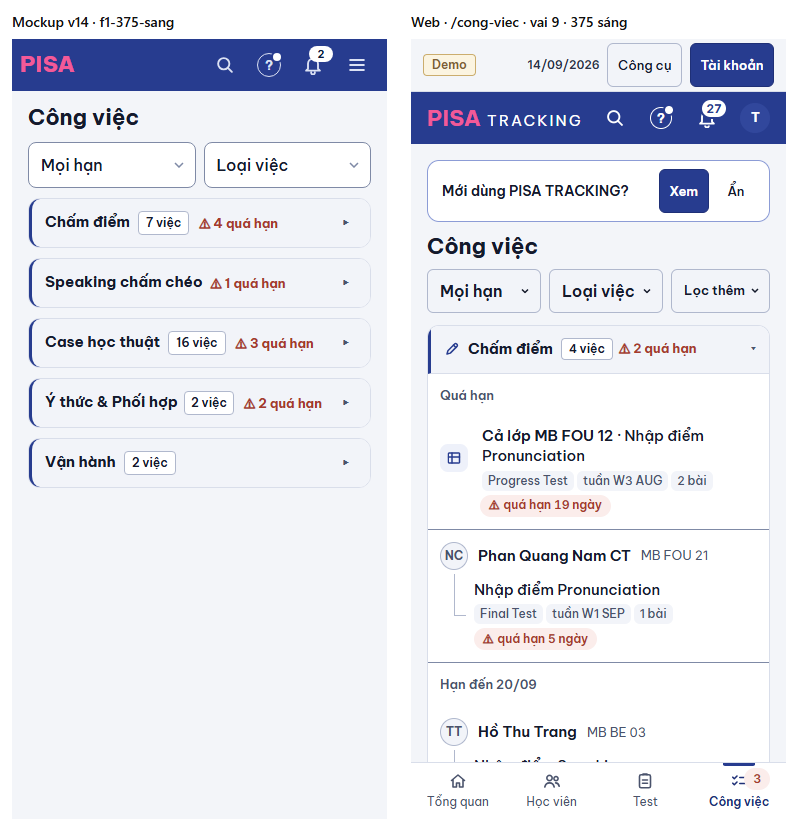
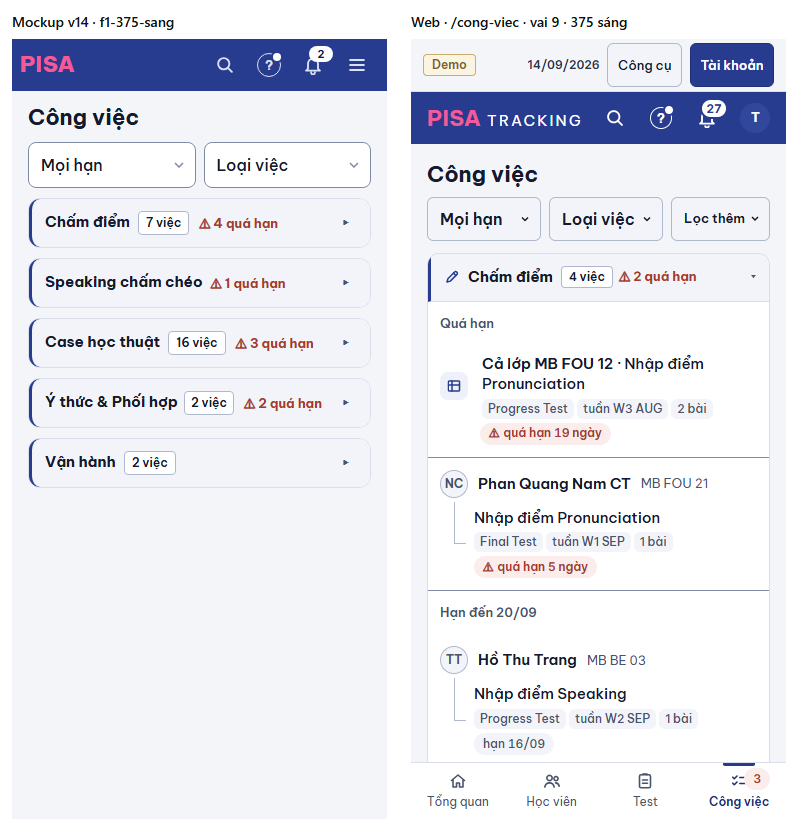
HD-V2a: bỏ dải 'Mới dùng PISA TRACKING?' (PTA chốt — chấm trên ? thay); UIC-1 đổi; chụp lại f1

Changed region(s): [[0.5113, 0.1805, 0.9323, 0.9025], [0.8421, 0.8424, 0.8722, 0.8724]]

diff --git a/server/src/tests/prUiChung.tests.ts b/server/src/tests/prUiChung.tests.ts
@@ -1,6 +1,6 @@
 /**
  * PHÉP KIỂM P3 UI-CHUNG (chủ SP 24/10 — đặc tả `2026-10-24-cai-tien-da-chot-design.md` R6.2, R6.3a, R6.4a, R6.4b). Đọc nguồn khi không kiểm được hành vi.
- *   UIC-1  "Mới dùng PISA TRACKING?" (bỏ "Mới dùng PISA?") + khoá EN
+ *   UIC-1  dải "Mới dùng PISA TRACKING?" đã bỏ (HD-V2: chấm trên nút "?")
  *   UIC-2  bỏ Góp ý hàng tuần khỏi giao diện; route, bảng `gop_y_tuan`, Lịch sử góp ý giữ
  */
 import fs from 'node:fs';
@@ -17,13 +17,12 @@ export async function runPrUiChungTests(t: any) {
   const dbMod: any = await import('../db.ts');
   const { P } = t;
   console.log('\nP3 UI-CHUNG');
-  check('UIC-1 · dải Tổng quan ghi "Mới dùng PISA TRACKING?", khoá EN "New to PISA TRACKING?"', () => {
-    const dai = doc('web/src/modules/huongDan/DaiMoiDung.tsx');
-    assert(!dai.includes("'Mới dùng PISA?'"), 'còn chữ cũ');
-    assert(dai.includes("t('Mới dùng PISA TRACKING?')"), 'thiếu chữ mới');
+  /* HD-V2 (PTA chốt 05/11, rà #1003): dải "Mới dùng PISA TRACKING?" BỎ — chấm trên nút "?" thay nó (mockup v14 F1). */
+  check('UIC-1 · dải "Mới dùng PISA TRACKING?" đã bỏ khỏi Tổng quan, Công việc; chữ EN gỡ theo', () => {
+    assert(!fs.existsSync(path.join(REPO, 'web/src/modules/huongDan/DaiMoiDung.tsx')), 'còn tệp DaiMoiDung');
+    for (const f of ['web/src/modules/worklist/OverviewPage.tsx', 'web/src/modules/congViec/HoTroHocVienTab.tsx']) assert(!doc(f).includes('DaiMoiDung'), `${f} còn dải`);
     const en = doc('shared/i18n/en/hd.ts');
-    assert(en.includes("'Mới dùng PISA TRACKING?': 'New to PISA TRACKING?'"), 'thiếu khoá EN');
-    assert(!en.includes("'Mới dùng PISA?'"), 'khoá EN cũ còn');
+    assert(!en.includes("'Mới dùng PISA TRACKING?'") && !en.includes("'Mới dùng PISA?'"), 'khoá EN của dải còn');
   });
 
   check('UIC-2 · Góp ý hàng tuần gỡ khỏi giao diện (link cũ ?che-do=gop-y → Tổng hợp), dữ liệu + Lịch sử góp ý giữ', () => {

diff --git a/server/src/tests/prHd.tests.ts b/server/src/tests/prHd.tests.ts
@@ -5,7 +5,7 @@
  *   HD-VIEC mỗi vai đúng 5 việc hằng tuần (chủ SP 15/10).
  *   HD-CHI  mỗi "Chỉ cho tôi" trỏ `data-hd` có thật trong mã web (quét nguồn) và mở trang có mục — đổi / xoá phần tử → đỏ;
  *           không trỏ phần tử màn đó không dựng cho vai (bảng CHI_VAI).
- *   HD-NHO  dải "Mới dùng PISA?" nhớ theo tài khoản: PATCH /me/profile { daXemHuongDan: true } → /demo/session; giá trị lạ → 400;
+ *   HD-NHO  "đã mở Hướng dẫn" nhớ theo tài khoản (chấm trên nút "?"): PATCH /me/profile { daXemHuongDan: true } → /demo/session; giá trị lạ → 400;
  *           migrate prHd chạy lặp được.
  */
 import fs from 'node:fs';
@@ -21,7 +21,7 @@ export async function runPrHdTests(t: any) {
   const { navOf } = await import('../platform/nav.ts');
   const { migratePrHd } = await import('../migrate/prHd.ts');
   const { createApp } = await import('../app.ts');
-  console.log('\nHD-a · Hướng dẫn trên web · mục theo màn · Chỉ cho tôi · nhớ dải Mới dùng');
+  console.log('\nHD-a · Hướng dẫn trên web · mục theo màn · Chỉ cho tôi · nhớ đã mở (chấm "?")');
 
   /* Vai có hướng dẫn → tài khoản mẫu để dựng thanh điều hướng thật (`navOf`). Thêm vai thì thêm tài khoản ở đây. */
   const { loadPrincipal } = await import('../permissions.ts');

diff --git a/web/src/modules/congViec/HoTroHocVienTab.tsx b/web/src/modules/congViec/HoTroHocVienTab.tsx
@@ -19,7 +19,6 @@ import { CreateTask } from '../worklist/MgmtTasksPage.tsx';
 import { HopChoDuyet } from '../duyet/HopChoDuyet.tsx';
 import { YeuCauCuaToi } from '../duyet/YeuCauCuaToi.tsx';
 import { LopToiDay } from '../worklist/LopToiDay.tsx';
-import { DaiMoiDung } from '../huongDan/DaiMoiDung.tsx';
 import { ChonPhuTrach } from './ChonPhuTrach.tsx';
 import { CongTacKhung, khungDaNho, nhoKhung, phamViCoHaiKhung, type KhungLoc } from '../../ui/CongTacKhung.tsx';
 import { DauViecCongViec, KhungTaiCho, NhanTruongDam, boChuRoi } from '../../ui/KhungPanel.tsx';
@@ -372,7 +371,6 @@ export function HoTroHocVienTab() {
   return (
     <div className="space-y-3">
       <div className={`space-y-2.5 ${anTrenDienThoai}`}>
-        {laGv && <DaiMoiDung />}
         {/* v12 S11: tiêu đề trái (bỏ "n việc · n HV · n bài" — số ở đầu nhóm) — bộ lọc phải. KHUNG-LOI (A1-07): tiêu đề = tên menu.
             TVV một chi nhánh vẫn có tên chi nhánh (UI-CV-TVV). */}
         <header className="flex flex-wrap items-center gap-x-3.5 gap-y-2" data-hd="cv-loc-them">

diff --git a/web/src/modules/worklist/OverviewPage.tsx b/web/src/modules/worklist/OverviewPage.tsx
@@ -6,7 +6,6 @@ import { useApi } from '../../lib/useApi.ts';
 import { BranchFilter, useChiNhanhMacDinh } from '../../ui/Filters.tsx';
 import { LichSapToi } from './Highlights.tsx';
 import { ErrorState, Skeleton } from '../../ui/ui.tsx';
-import { DaiMoiDung } from '../huongDan/DaiMoiDung.tsx';
 import { MockTestAdmin } from './MockTestAdmin.tsx';
 import { CongTacKhung, khungDaNho } from '../../ui/CongTacKhung.tsx';
 import {
@@ -46,7 +45,6 @@ export default function OverviewPage() {
   const trang = (phamVi: string, than: React.ReactNode, ben?: React.ReactNode, ky?: { tu: string; den: string } | null) => (
     <div className="page tq-v8 space-y-4">
       <DauTrangTq phamVi={phamVi} ben={ben} ky={ky} />
-      <DaiMoiDung />
       {than}
     </div>
   );

diff --git a/server/src/routes/index.ts b/server/src/routes/index.ts
@@ -236,7 +236,7 @@ api.get('/demo/session', wrap((req) => {
     user: { id: p.userId, code: p.code, fullName: p.fullName, title: p.title },
     /* PR-EN: ngôn ngữ của tài khoản (null = chưa chọn) — web đồng bộ với máy (`web/src/lib/session.tsx`). */
     ngonNgu: p.ngonNgu ?? null,
-    /* HD-a: dải "Mới dùng PISA?" ở Tổng quan chỉ hiện khi false. */
+    /* HD-a / HD-V2: false → chấm trên nút "?" (dải "Mới dùng PISA?" đã bỏ). */
     daXemHuongDan: !!p.daXemHuongDan,
     /* HD-V2 (đặc tả 9.3): phần "Chỉ GVCN" / "GV Speaking" của Hướng dẫn — tính từ principal đã nạp, 0 câu thêm. */
     laGvcn: p.assignments.some((a) => a.isCore && activeAt(a, demoToday())),

diff --git a/web/src/lib/session.tsx b/web/src/lib/session.tsx
@@ -25,7 +25,7 @@ export type Session = {
   user?: { id: number; code: string; fullName: string; title: string | null };
   /** PR-EN: ngôn ngữ của tài khoản ('vi' | 'en'; null = chưa chọn). */
   ngonNgu?: string | null;
-  /** HD-a: đã mở Hướng dẫn / bấm Ẩn dải "Mới dùng PISA TRACKING?" — nhớ theo tài khoản. */
+  /** HD-a: đã mở Hướng dẫn — nhớ theo tài khoản (HD-V2: chấm trên nút "?"). */
   daXemHuongDan?: boolean;
   /** HD-V2: GV chủ nhiệm ít nhất một lớp · GV Speaking (phần riêng của Hướng dẫn). */
   laGvcn?: boolean; coS?: boolean;

diff --git a/web/src/modules/huongDan/MucHuongDan.tsx b/web/src/modules/huongDan/MucHuongDan.tsx
@@ -40,7 +40,7 @@ export function useVaiHd() {
   return { cuaToi, coNoiDung: !!HUONG_DAN[cuaToi], macDinh: vaiCoNoiDung(cuaToi) };
 }
 
-/** Ghi "đã mở Hướng dẫn" một lần cho tài khoản (dải Mới dùng PISA TRACKING? không hiện lại). Trả false khi lưu lỗi. */
+/** Ghi "đã mở Hướng dẫn" một lần cho tài khoản (hết chấm trên nút "?"). Trả false khi lưu lỗi. */
 export function useDaXemHd() {
   const { session, reload } = useSession();
   const chuaXem = !!session?.authenticated && session.daXemHuongDan === false;

diff --git a/shared/i18n/en/hd.ts b/shared/i18n/en/hd.ts
@@ -16,8 +16,6 @@ export const EN_HD = {
   'Chỉ cho tôi': 'Show me',
   'Mở trang Hướng dẫn': 'Open the Guide page',
   'Chưa có việc nào ở đây': 'Nothing here yet',
-  'Mới dùng PISA TRACKING?': 'New to PISA TRACKING?',
-  'Xem 5 việc hằng tuần của bạn (3 phút)': 'See your 5 weekly tasks (3 min)',
   'Ẩn': 'Hide',
   'Hướng dẫn': 'Guide',
   'Trạng thái Hướng dẫn không hợp lệ.': 'Invalid guide status.',

diff --git a/docs/anh/hd-v2a/khop-khac.md b/docs/anh/hd-v2a/khop-khac.md
@@ -37,7 +37,7 @@ Phông: `document.fonts.check('600 15px "Be Vietnam Pro"')` = true ở mọi ả
 | Thao tác | Trước | Sau |
 |---|---|---|
 | Mở hướng dẫn của màn | Tài khoản › Hướng dẫn | Nút **?** trên thanh (mọi trang, 375 44 px) |
-| Biết chưa mở lần nào | dải "Mới dùng PISA TRACKING?" ở Tổng quan | giữ dải + chấm trên "?" |
+| Biết chưa mở lần nào | dải "Mới dùng PISA TRACKING?" (Xem · Ẩn) ở Tổng quan, Công việc | chấm trên "?" (PTA chốt 05/11 — bỏ dải, mockup F1 không có); mở "?" là hết chấm |
 | Mở khi đang làm Case / Nhập điểm | mở panel Hướng dẫn đóng panel đang làm (`khoPanelChung`) | mở chồng, panel đang làm và chữ đang gõ còn nguyên; Esc / ✕ chỉ đóng hướng dẫn |
 | Xem việc của màn | danh sách mục của màn | 3 khối Bạn đang ở · Việc làm ở đây · Không làm ở đây |
 | Tìm | lọc bỏ dấu | lọc bỏ dấu + từ đồng nghĩa + việc vai khác |
@@ -46,8 +46,8 @@ Phông: `document.fonts.check('600 15px "Be Vietnam Pro"')` = true ở mọi ả
 | QL / QT xem vai khác | ô chọn ở trang | ô "Vai: …" trên đầu panel + trang |
 | Trang /huong-dan, In | có | giữ (GV: phần đầu là Tôi muốn…; PR c làm lại theo 3 tab) |
 
-Không mất thao tác nào.
+Không mất thao tác nào (dải Mới dùng bỏ theo PTA chốt: việc nó làm — báo chưa mở, dẫn tới hướng dẫn — nay là chấm + nút "?").
 
 ## 4. [XM] / để sau
-- Dải "Mới dùng PISA TRACKING?" giữ (đặc tả không nói bỏ) — PTA quyết có bỏ khi đã có chấm trên "?".
+- ~~Dải "Mới dùng PISA TRACKING?"~~ — PTA chốt 05/11: BỎ (chấm trên "?" thay). Đã gỡ dải, phép UIC-1 đổi thành "đã bỏ", chữ EN gỡ; cờ `daXemHuongDan` giữ cho chấm.
 - Màn GV `/phan-tich`: GV mẫu không có quyền; mục "màn chưa có hướng dẫn riêng" chỉ thấy ở vai có Phân tích.
